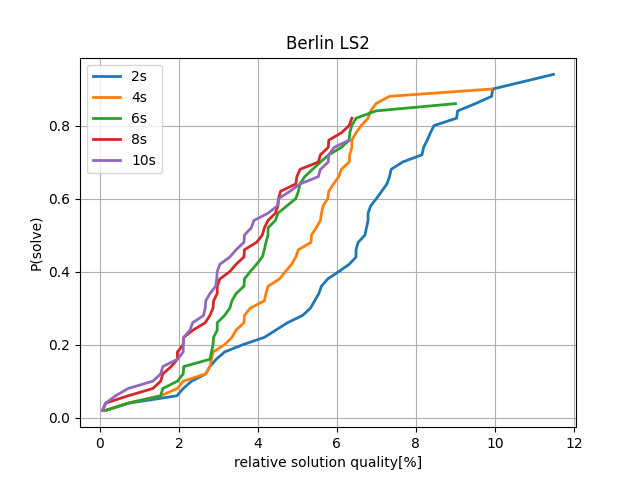
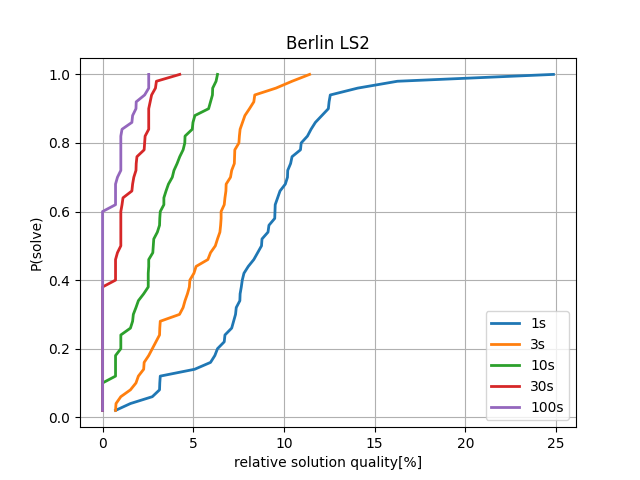
fix sqd time limit

diff --git a/code/qrtd.py b/code/qrtd.py
@@ -134,9 +134,11 @@ def process_sqd_data(time = 0.2, city = 'Berlin', method ='LS2'):
     for i in range(k):
         data = all_data[i]
         for runtime, quality in data:
-            if runtime > time:
-                quality_list.append((quality - optimal[city]) * 100 / optimal[city])
+            if runtime < time:
+                prev_quality = quality
+            else:
                 break
+        quality_list.append((prev_quality - optimal[city]) * 100 / optimal[city])
             
     quality_list.sort()
     return quality_list
@@ -164,11 +166,11 @@ def draw_sqd_plot(quality_list0, quality_list2, quality_list4, quality_list6, qu
     
     plt.figure()
     
-    plt.plot(x0, y0, label="2s", linewidth=2)
-    plt.plot(x2, y2, label="4s", linewidth=2)
-    plt.plot(x4, y4, label="6s", linewidth=2)
-    plt.plot(x6, y6, label="8s", linewidth=2)
-    plt.plot(x8, y8, label="10s", linewidth=2)
+    plt.plot(x0, y0, label="1s", linewidth=2)
+    plt.plot(x2, y2, label="3s", linewidth=2)
+    plt.plot(x4, y4, label="10s", linewidth=2)
+    plt.plot(x6, y6, label="30s", linewidth=2)
+    plt.plot(x8, y8, label="100s", linewidth=2)
     
     # plt.xlim((0, 100))
     plt.title('{} {}'.format(city, method))
@@ -249,19 +251,19 @@ if __name__ == '__main__':
         
     
     
-    quality_list_0 = process_sqd_data(2, 'Berlin')
-    quality_list_2 = process_sqd_data(4)
-    quality_list_4 = process_sqd_data(6)
-    quality_list_6 = process_sqd_data(8)
-    quality_list_8 = process_sqd_data(10)
+    quality_list_0 = process_sqd_data(1, 'Berlin')
+    quality_list_2 = process_sqd_data(3)
+    quality_list_4 = process_sqd_data(10)
+    quality_list_6 = process_sqd_data(30)
+    quality_list_8 = process_sqd_data(100)
     
     draw_sqd_plot(quality_list_0, quality_list_2, quality_list_4, quality_list_6, quality_list_8, 'Berlin')
     
     
-    quality_list_0 = process_sqd_data(2, 'Champaign')
-    quality_list_2 = process_sqd_data(4, 'Champaign')
-    quality_list_4 = process_sqd_data(6, 'Champaign')
-    quality_list_6 = process_sqd_data(8, 'Champaign')
-    quality_list_8 = process_sqd_data(10, 'Champaign')
+    quality_list_0 = process_sqd_data(1, 'Champaign')
+    quality_list_2 = process_sqd_data(3, 'Champaign')
+    quality_list_4 = process_sqd_data(10, 'Champaign')
+    quality_list_6 = process_sqd_data(30, 'Champaign')
+    quality_list_8 = process_sqd_data(100, 'Champaign')
     
     draw_sqd_plot(quality_list_0, quality_list_2, quality_list_4, quality_list_6, quality_list_8, city='Champaign')
